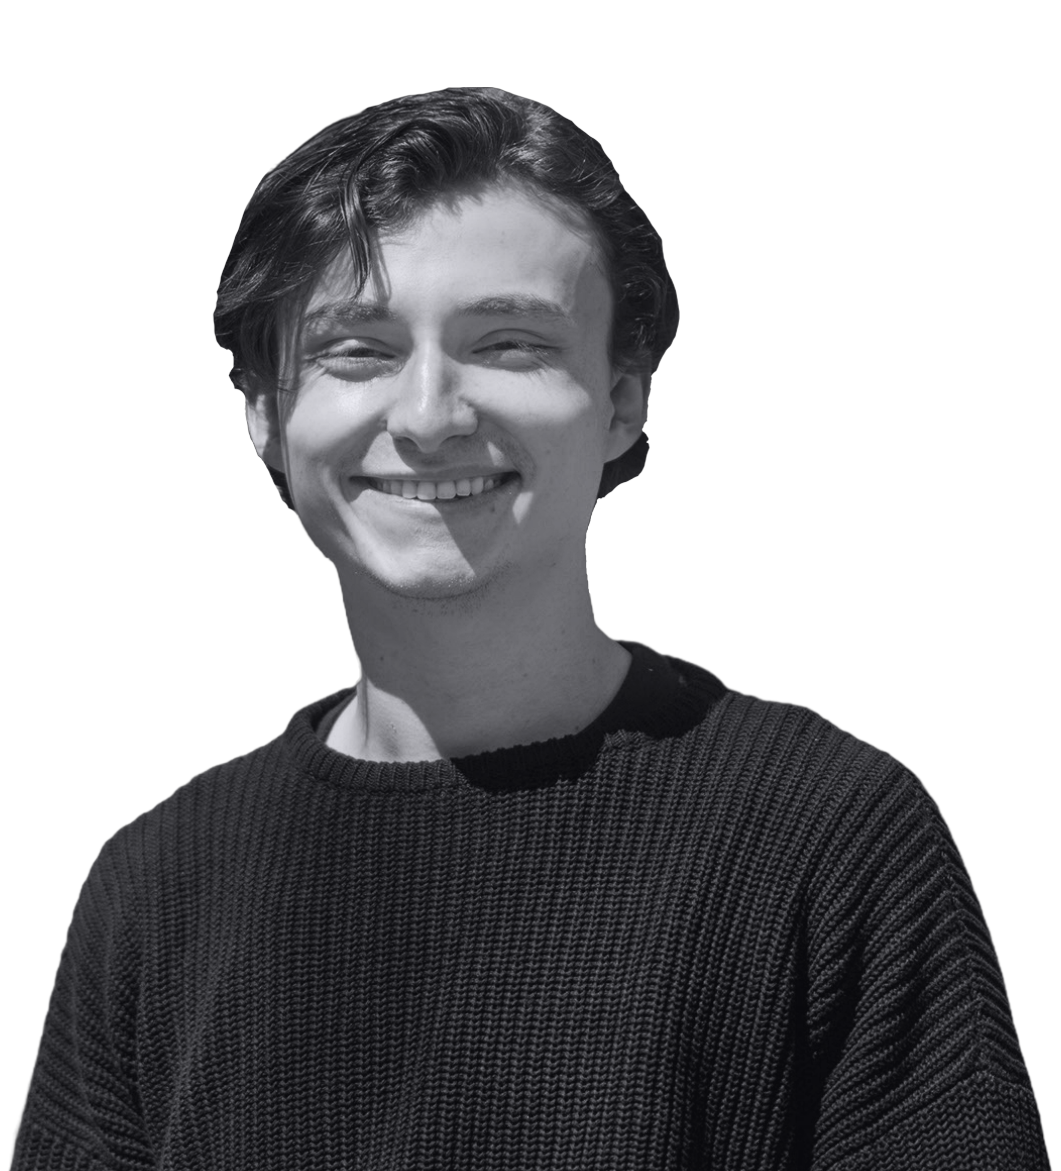
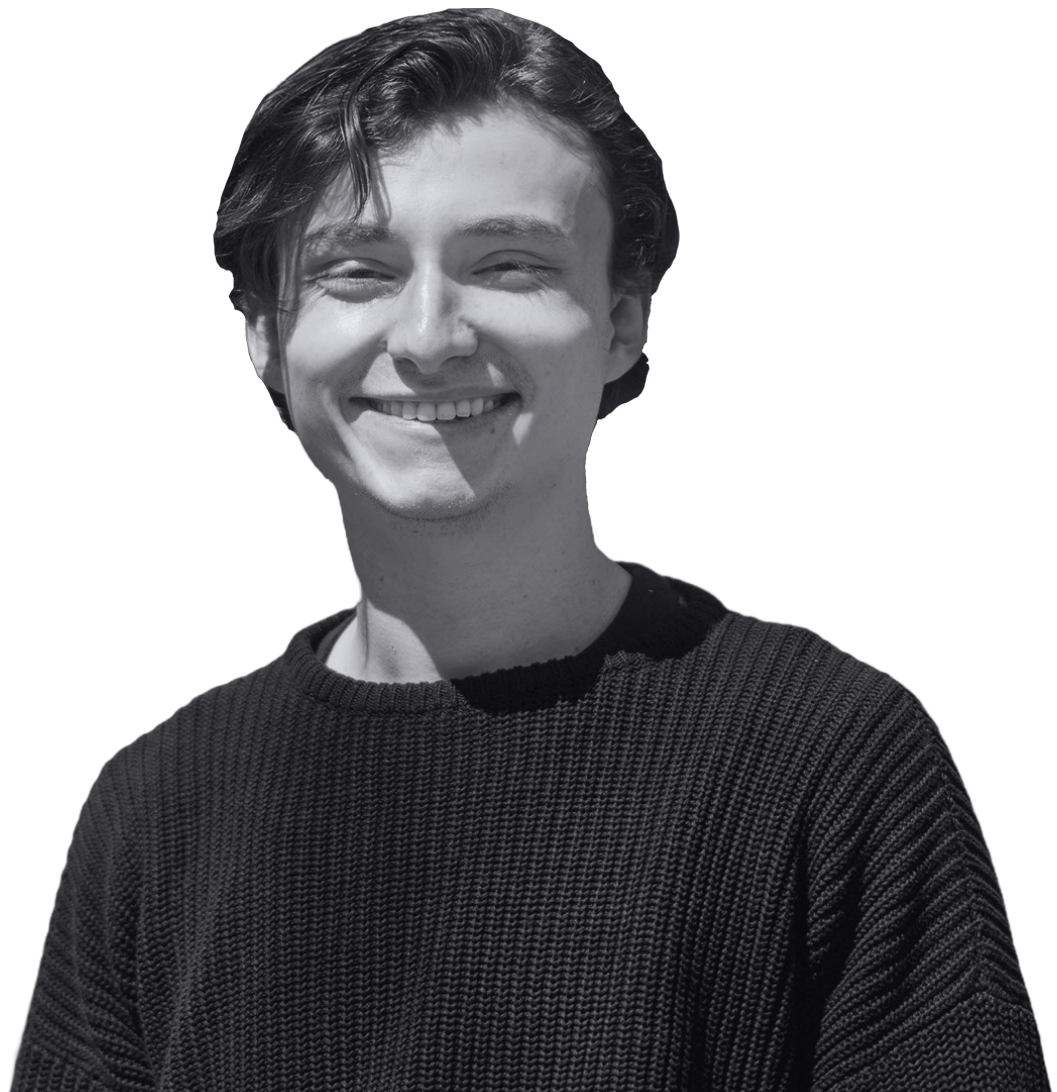
media queries and css adjustments

Changed region(s): [[0.0312, 0.0, 0.9991, 1.0], [0.0312, 0.8095, 0.0624, 0.9029]]

diff --git a/src/components/about/About.js b/src/components/about/About.js
@@ -7,18 +7,12 @@ import { DiRuby } from 'react-icons/di'
 function About() {
     return (
         <section id="about">
-            <h5>Get To Know Me</h5>
             <h2>About Me</h2>
 
             <div className="container about__container">
-                <div className="about__me">
-                    <div className='about__me-image'>
-                        <img src="" alt="About" />
-                    </div>
-                </div>
 
                 <div className="about__content">
-                    <div className="about__cards">
+                    {/* <div className="about__cards">
                         <article className="about__card">
                             <SiJavascript className="about__icon" />
                             <h5>Experience</h5>
@@ -34,10 +28,10 @@ function About() {
                             <h5>Experience</h5>
                             <small> Less than 1 Year</small>
                         </article>
-                    </div>
+                    </div> */}
 
                     <p>
-                        Lorem ipsum dolor sit amet, consectetur adipiscing elit, sed do eiusmod tempor incididunt ut labore et dolore magna aliqua. Ut enim ad minim veniam, quis nostrud exercitation ullamco laboris nisi ut aliquip ex ea commodo consequat. Duis aute irure dolor in reprehenderit in voluptate velit esse cillum dolore eu fugiat nulla pariatur. Excepteur sint occaecat cupidatat non proident, sunt in culpa qui officia deserunt mollit anim id est laborum.
+                        I'm a graduate of Flatiron School's Software Engineering program, and a professional learner. I hold a degree in Media and Information from Michigan State University, and have transitioned to software engineering after a brief yet fruitful career in audio engineering and sound design. The desire to understand and improve the systems around me brought me here, and the endless opportunity for creative expression and growth keeps me here.
                     </p>
 
                     <a href="#contact" className="btn btn-primary">Let's Talk</a>

diff --git a/src/components/portfolio/Portfolio.js b/src/components/portfolio/Portfolio.js
@@ -8,6 +8,7 @@ const data = [
         id: 1,
         image: HOPPERS,
         title: 'Hopper\'s Books',
+        description: "Secure Rails/React app for an eCommerce site for a frog-themed bookstore.",
         github: 'https://github.com/murphy-mi/hoppers-books',
         live: 'http://hoppersbooks.maxmmurphy.com/'
     },
@@ -15,6 +16,7 @@ const data = [
         id: 2,
         image: SPATS,
         title: 'Spats',
+        description: "React/Rails app for viewing your top tracks and artists on Spotify.",
         github: 'https://github.com/murphy-mi/phase-4-project-frontend',
         live: 'http://spats.maxmmurphy.com/'
     },
@@ -22,6 +24,7 @@ const data = [
         id: 3,
         image: ETT,
         title: 'Extraterrestrial Twinning',
+        description: "React app featuring a space-themed card-matching game.",
         github: 'https://github.com/murphy-mi/phase-2-project',
         live: 'https://ettwinning.netlify.app/'
     }
@@ -35,13 +38,14 @@ function Portfolio() {
             <h2>Portfolio</h2>
             <div className="container portfolio__container">
                 {
-                    data.map(({ id, image, title, github, live }) => {
+                    data.map(({ id, image, title, description, github, live }) => {
                         return (
                             <article key={id} className="portfolio__item">
                                 <div className="portfolio__item-image">
                                     <img src={image} alt={title} />
                                 </div>
                                 <h3>{title}</h3>
+                                <p>{description}</p>
                                 <div className='portfolio__item-cta'>
                                     <a href={github} className="btn">Github</a>
                                     <a href={live} className="btn btn-primary" target="_blank">Live</a>

diff --git a/src/components/header/header.css b/src/components/header/header.css
@@ -42,14 +42,15 @@ header {
 
 .me {
     background: linear-gradient(var(--color-primary), transparent);
-    width: 22rem;
-    height: 22.5rem;
+    width: 28rem;
+    height: 30rem;
     position: absolute;
-    left: calc(50% - 11rem);
+    /* taking 50% and subtracting half the width to center it */
+    left: calc(50% - 14rem);
     margin-top: 4rem;
-    border-radius: 12rem 12rem 0 0;
+    border-radius: 14rem 14rem 0 0;
     overflow: hidden;
-    padding: 3rem 1.5rem 1.5rem 3rem;
+    padding: 5.5rem 1.5rem 1.5rem 3rem;
 }
 
 /* SCROLL DOWN */
@@ -72,7 +73,34 @@ header {
 /* MEDIA QUERIES (SMALL DEVICES) */
 @media screen and (max-width: 600px) {
     header {
-        height: 100vh;
+        height: 90vh;
+    }
+
+    .me {
+        height: 40vh;
+        width: 38vh;
+        left: calc(50% - 19vh);
+        padding: 5rem 1.5rem 1.5rem 3rem;
+    }
+
+    .header__socials,
+    .scroll__down {
+        display: none;
+    }
+}
+
+/* MEDIA QUERIES (EXTRA SMALL DEVICES) */
+@media screen and (max-width: 400px) {
+    header {
+        height: 95vh;
+    }
+
+    .me {
+        margin-top: 2rem;
+        height: 46vh;
+        width: 46vh;
+        left: calc(50% - 23vh);
+        padding: 3rem 1.5rem 1.5rem 3rem;
     }
 
     .header__socials,

diff --git a/src/components/about/about.css b/src/components/about/about.css
@@ -1,7 +1,9 @@
 .about__container {
     display: grid;
-    grid-template-columns: 35% 50%;
-    gap: 15%;
+    /* grid-template-columns: 35%; */
+    /* gap: 15%; */
+    /* width: 50%;
+    place-items: center; */
 }
 
 .about__me {
@@ -64,8 +66,19 @@
 }
 
 .about__content p {
-    margin: 2rem 0 2.6rem;
+    margin: 1rem 0 2.6rem;
     color: var(--color-light);
+}
+
+/* MEDIA QUERIES (ALL LARGER SCREENS) */
+@media screen and (min-width: 1024px) {
+    .about__container {
+
+        /* grid-template-columns: 35%; */
+        /* gap: 15%; */
+        width: 50%;
+        place-items: center;
+    }
 }
 
 /* MEDIA QUERIES (MEDIUM DEVICES) */
@@ -73,6 +86,8 @@
     .about__container {
         grid-template-columns: 1fr;
         gap: 0;
+        /* width: 50%;
+        place-items: left; */
     }
 
     .about__me {
@@ -90,6 +105,8 @@
     .about__me {
         width: 65%;
         margin: 0 auto 3rem;
+        /* width: 100%;
+        place-items: left; */
     }
 
     .about__cards {

diff --git a/src/components/footer/Footer.js b/src/components/footer/Footer.js
@@ -16,8 +16,8 @@ function Footer() {
             </ul>
 
             <div className='footer__socials'>
-                <a href="https://www.linkedin.com/in/maxmmurphy/"><BsLinkedin /></a>
-                <a href="https://github.com/murphy-mi"><BsGithub /></a>
+                <a href="https://www.linkedin.com/in/maxmmurphy/" target="_blank"><BsLinkedin /></a>
+                <a href="https://github.com/murphy-mi" target="_blank"><BsGithub /></a>
             </div>
 
         </footer>

diff --git a/src/components/experience/Experience.js b/src/components/experience/Experience.js
@@ -11,8 +11,7 @@ import { SiPostgresql } from 'react-icons/si'
 function Experience() {
     return (
         <section id="experience">
-            <h5>Skills</h5>
-            <h2>My Experience</h2>
+            <h2>Experience</h2>
 
             <div className="container experience__container">
                 <div className="experience__frontend">

diff --git a/src/components/header/Header.js b/src/components/header/Header.js
@@ -2,7 +2,7 @@ import './header.css'
 import HeaderSocials from './HeaderSocials'
 import Resume from './Resume'
 import MEBW from '../../assets/me-transparent-bw.png'
-import ME from '../../assets/me-transparent.png'
+// import ME from '../../assets/me-transparent.png'
 
 function Header() {
     return (

diff --git a/src/components/portfolio/portfolio.css b/src/components/portfolio/portfolio.css
@@ -27,6 +27,11 @@
     margin: 1.2rem 0 2rem;
 }
 
+.portfolio__item p {
+    height: 4rem;
+    margin: 1.2rem 0 2rem;
+}
+
 .portfolio_item-cta {
     display: flex;
     gap: 1rem;
